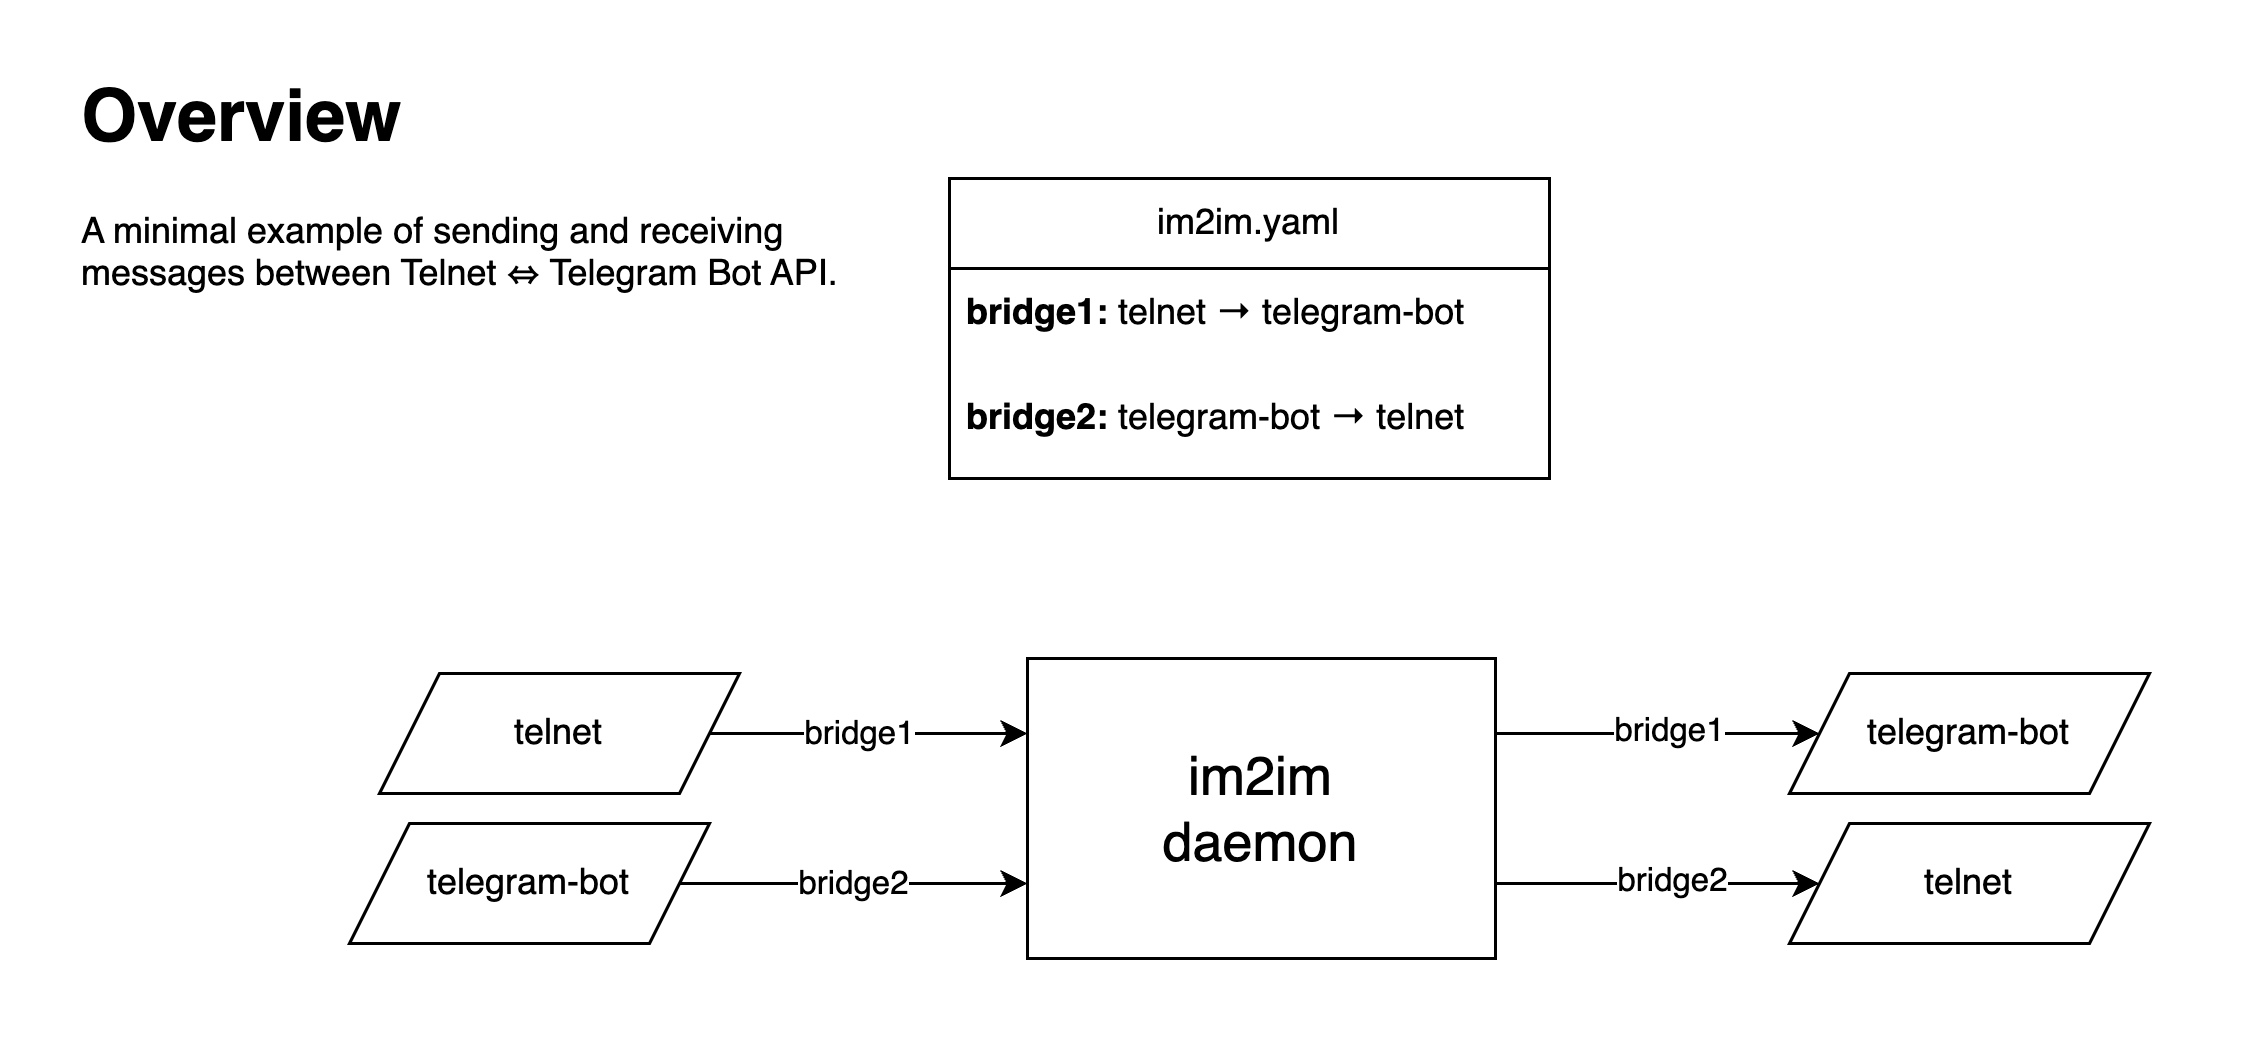
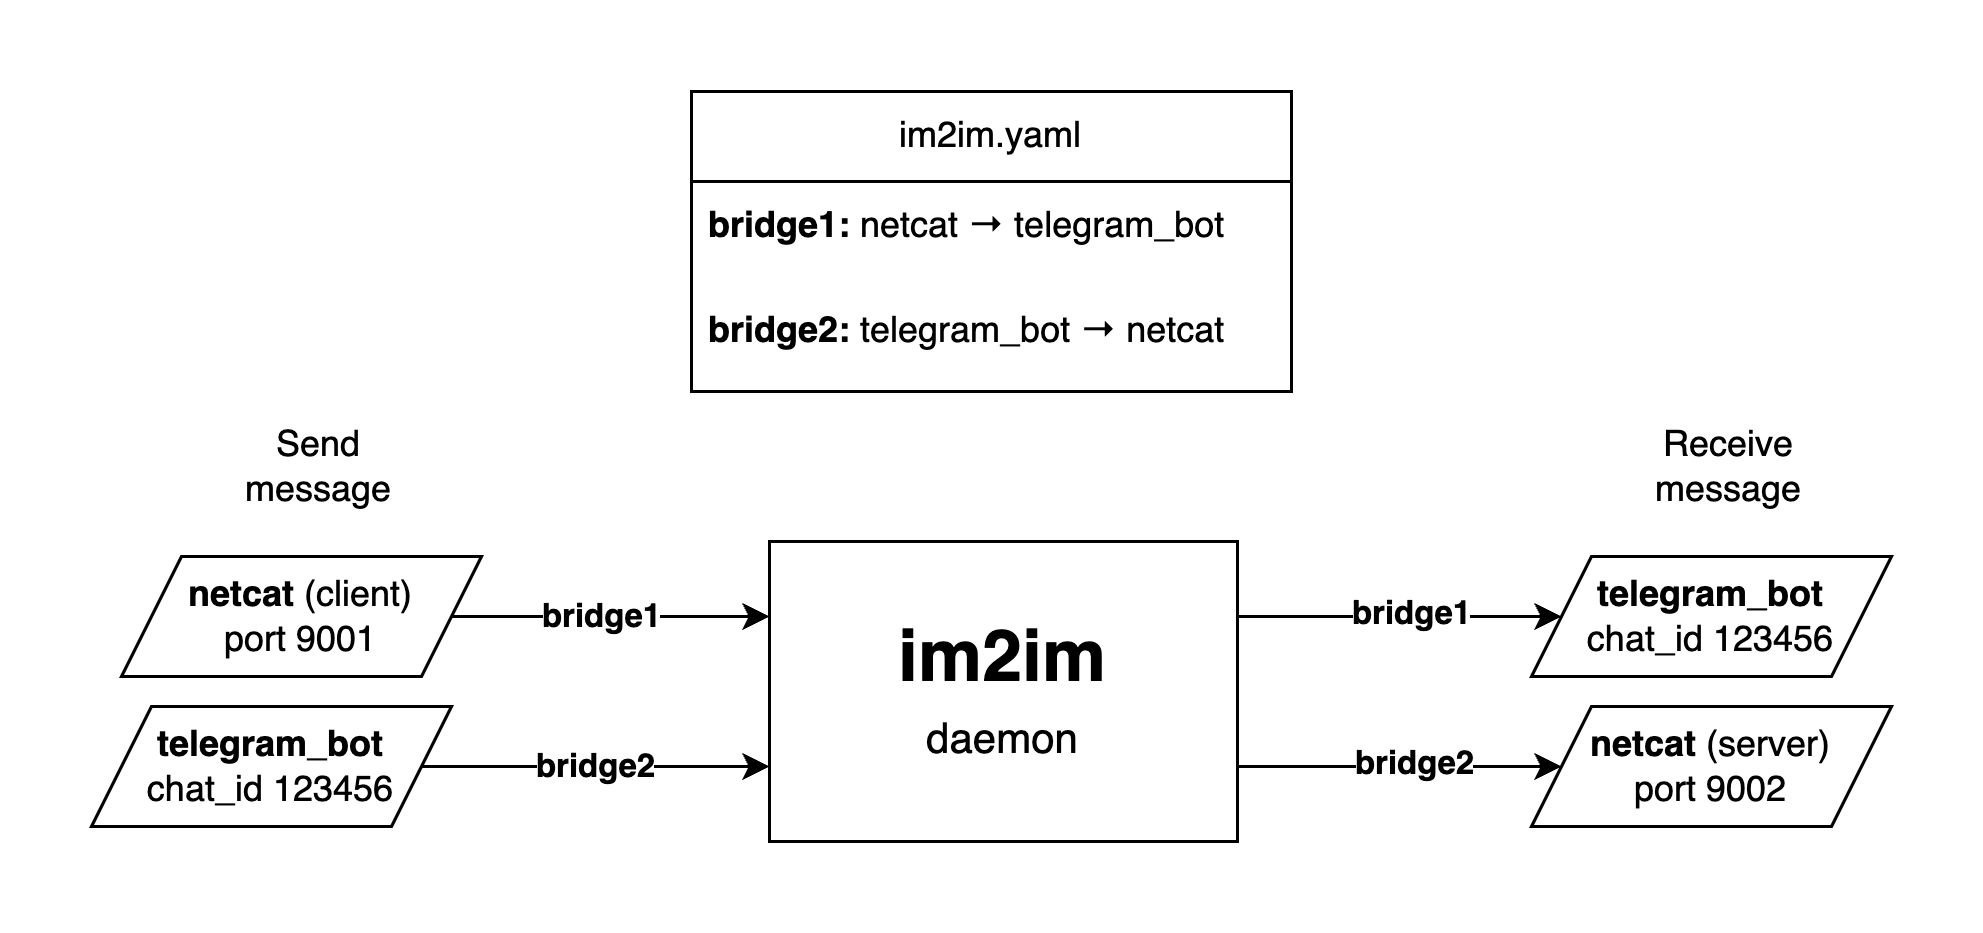
Netcat support

diff --git a/cmd/protocol/netcat.go b/cmd/protocol/netcat.go
@@ -1,0 +1,65 @@
+package protocol
+
+import (
+	"bufio"
+	"fmt"
+	"log"
+	"net"
+)
+
+type Netcat struct {
+	Port int `yaml:"port"`
+}
+
+func (t *Netcat) InitFrom(channel chan string) {
+	log.Printf("Netcat: InitFrom: port=%d", t.Port)
+
+	ln, err := net.Listen("tcp", fmt.Sprintf(":%d", t.Port))
+	if err != nil {
+		log.Fatalf("Error creating listener: %v\n", err)
+	}
+	defer ln.Close()
+
+	conn, err := ln.Accept()
+	if err != nil {
+		log.Fatalf("Error accepting connection: %v\n", err)
+	}
+	defer conn.Close()
+
+	log.Printf("Netcat: connection accepted: %s", conn.RemoteAddr().String())
+
+	scanner := bufio.NewScanner(conn)
+	for scanner.Scan() {
+		message := scanner.Text()
+		log.Printf("Netcat: from: \"%s\"", message)
+		channel <- message
+	}
+
+	if err := scanner.Err(); err != nil {
+		log.Printf("Error reading from connection: %v\n", err)
+	}
+}
+
+func (t *Netcat) InitTo(channel chan string) {
+	log.Printf("Netcat: InitTo: port=%d", t.Port)
+
+	conn, err := net.Dial("tcp", fmt.Sprintf(":%d", t.Port))
+	if err != nil {
+		fmt.Println("Error connecting:", err.Error())
+		return
+	}
+	defer conn.Close()
+
+	log.Printf("Netcat: connection accepted: %s", conn.RemoteAddr().String())
+
+	for {
+		message := <-channel
+		_, err = conn.Write([]byte(message + "\n"))
+		if err != nil {
+			fmt.Println("Error sending message:", err.Error())
+			return
+		}
+
+		log.Printf("Netcat: to: \"%s\"", message)
+	}
+}

diff --git a/cmd/main.go b/cmd/main.go
@@ -1,0 +1,50 @@
+package main
+
+import (
+	"flag"
+	"log"
+	"os"
+
+	"github.com/AndreiRegiani/im2im/cmd/protocol"
+	"gopkg.in/yaml.v3"
+)
+
+func main() {
+	configFlag := flag.String("config", "im2im.yaml", "Path to the config YAML file")
+	flag.Parse()
+
+	data, err := os.ReadFile(*configFlag)
+	if err != nil {
+		log.Fatalf("Error reading config file: %v", err)
+	}
+
+	var config protocol.Config
+	err = yaml.Unmarshal(data, &config)
+	if err != nil {
+		log.Fatalf("Error unmarshaling YAML: %v", err)
+	}
+
+	for label, bridge := range config.Bridges {
+		log.Printf("Bridge: %s", label)
+
+		channel := make(chan string)
+
+		if bridge.From.Netcat != nil {
+			go bridge.From.Netcat.InitFrom(channel)
+		}
+
+		if bridge.To.Netcat != nil {
+			go bridge.To.Netcat.InitTo(channel)
+		}
+
+		if bridge.From.TelegramBot != nil {
+			log.Printf("Warning: protocol [from]TelegramBot is not supported")
+		}
+
+		if bridge.To.TelegramBot != nil {
+			log.Printf("Warning: protocol [to]TelegramBot is not supported")
+		}
+	}
+
+	select {}
+}

diff --git a/cmd/protocol/protocol.go b/cmd/protocol/protocol.go
@@ -1,0 +1,16 @@
+package protocol
+
+type Config struct {
+	Bridges map[string]Bridge `yaml:"bridges"`
+}
+
+type Bridge struct {
+	From struct {
+		Netcat      *Netcat      `yaml:"netcat,omitempty"`
+		TelegramBot *TelegramBot `yaml:"telegram_bot,omitempty"`
+	} `yaml:"from"`
+	To struct {
+		Netcat      *Netcat      `yaml:"netcat,omitempty"`
+		TelegramBot *TelegramBot `yaml:"telegram_bot,omitempty"`
+	} `yaml:"to"`
+}

diff --git a/cmd/protocol/telegram_bot.go b/cmd/protocol/telegram_bot.go
@@ -1,0 +1,6 @@
+package protocol
+
+type TelegramBot struct {
+	Token  string `yaml:"token"`
+	ChatID int64  `yaml:"chat_id"`
+}

diff --git a/README.md b/README.md
@@ -1,14 +1,18 @@
 # im2im
 
-Proof of Concept: deamon to bridge between two instant messaging protocols.
+Proof of Concept: daemon to bridge between two instant messaging protocols.
 
-The service listens for incoming messages on a given protocol and forwards them to another protocol. It's designed to be extensible to support the addition of new protocols and configuring their usage via a configuration file.
+The service listens for incoming messages on a given protocol and forwards them to another protocol. It's designed to be extensible to support the addition of new protocols and configuring their usage via a configuration file (YAML).
+
+## Overview
+
+Example for sending and receiving messages between netcat ⇔ Telegram Bot API.
 
 ![Alt text](./assets/overview.png "Overview")
 
 ## Implementation
 
-* Go 1.20
+* Go 1.20, each bridge spawns two goroutines (sender/receiver) and uses one channel to communicate the message.
 
 ## Installation
 
@@ -35,10 +39,21 @@ cp im2im.yaml.example im2im.yaml
 ```yaml
 ```
 
+### Running
+
+```bash
+nc localhost 9001
+```
+
+```bash
+nc -l 9002
+```
+
 ## Supported protocols
 
-* Telnet (`telnet`)
-* Telegram Bot (`telegram-bot`)
+* netcat (TCP socket)
+* Telegram Bot (coming soon)
+* ...?
 
 ## Contributing
 
